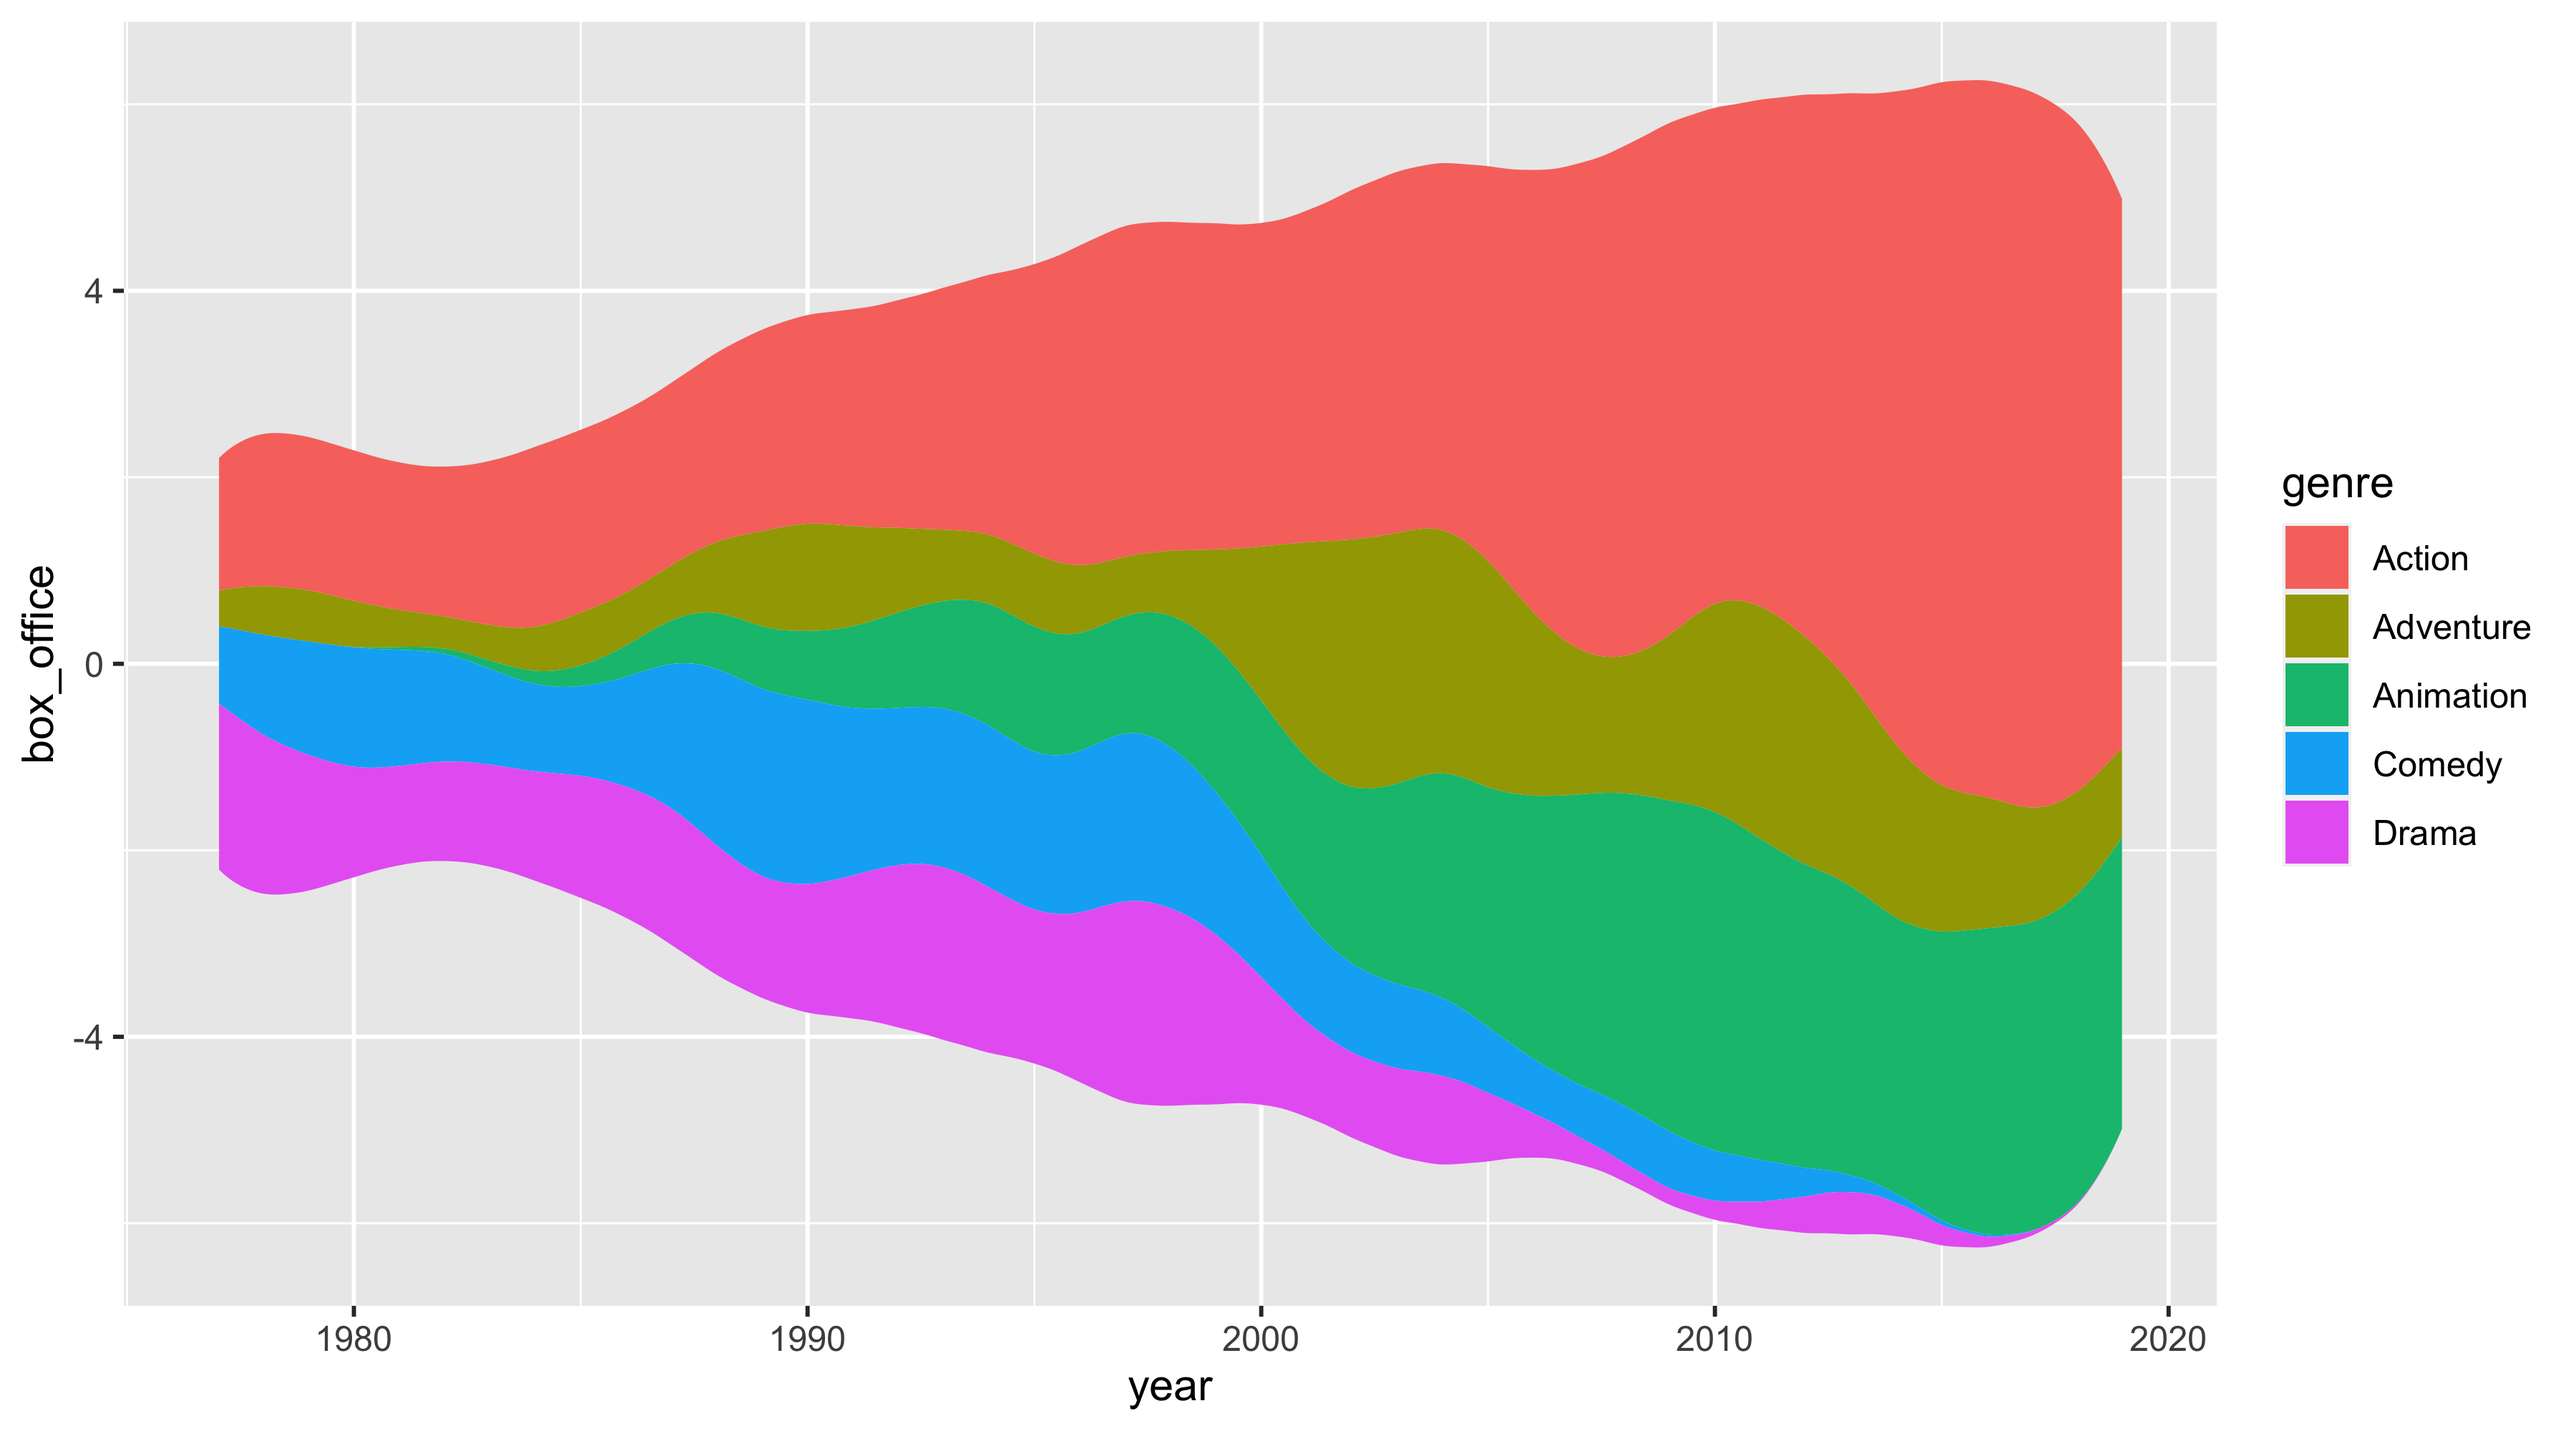
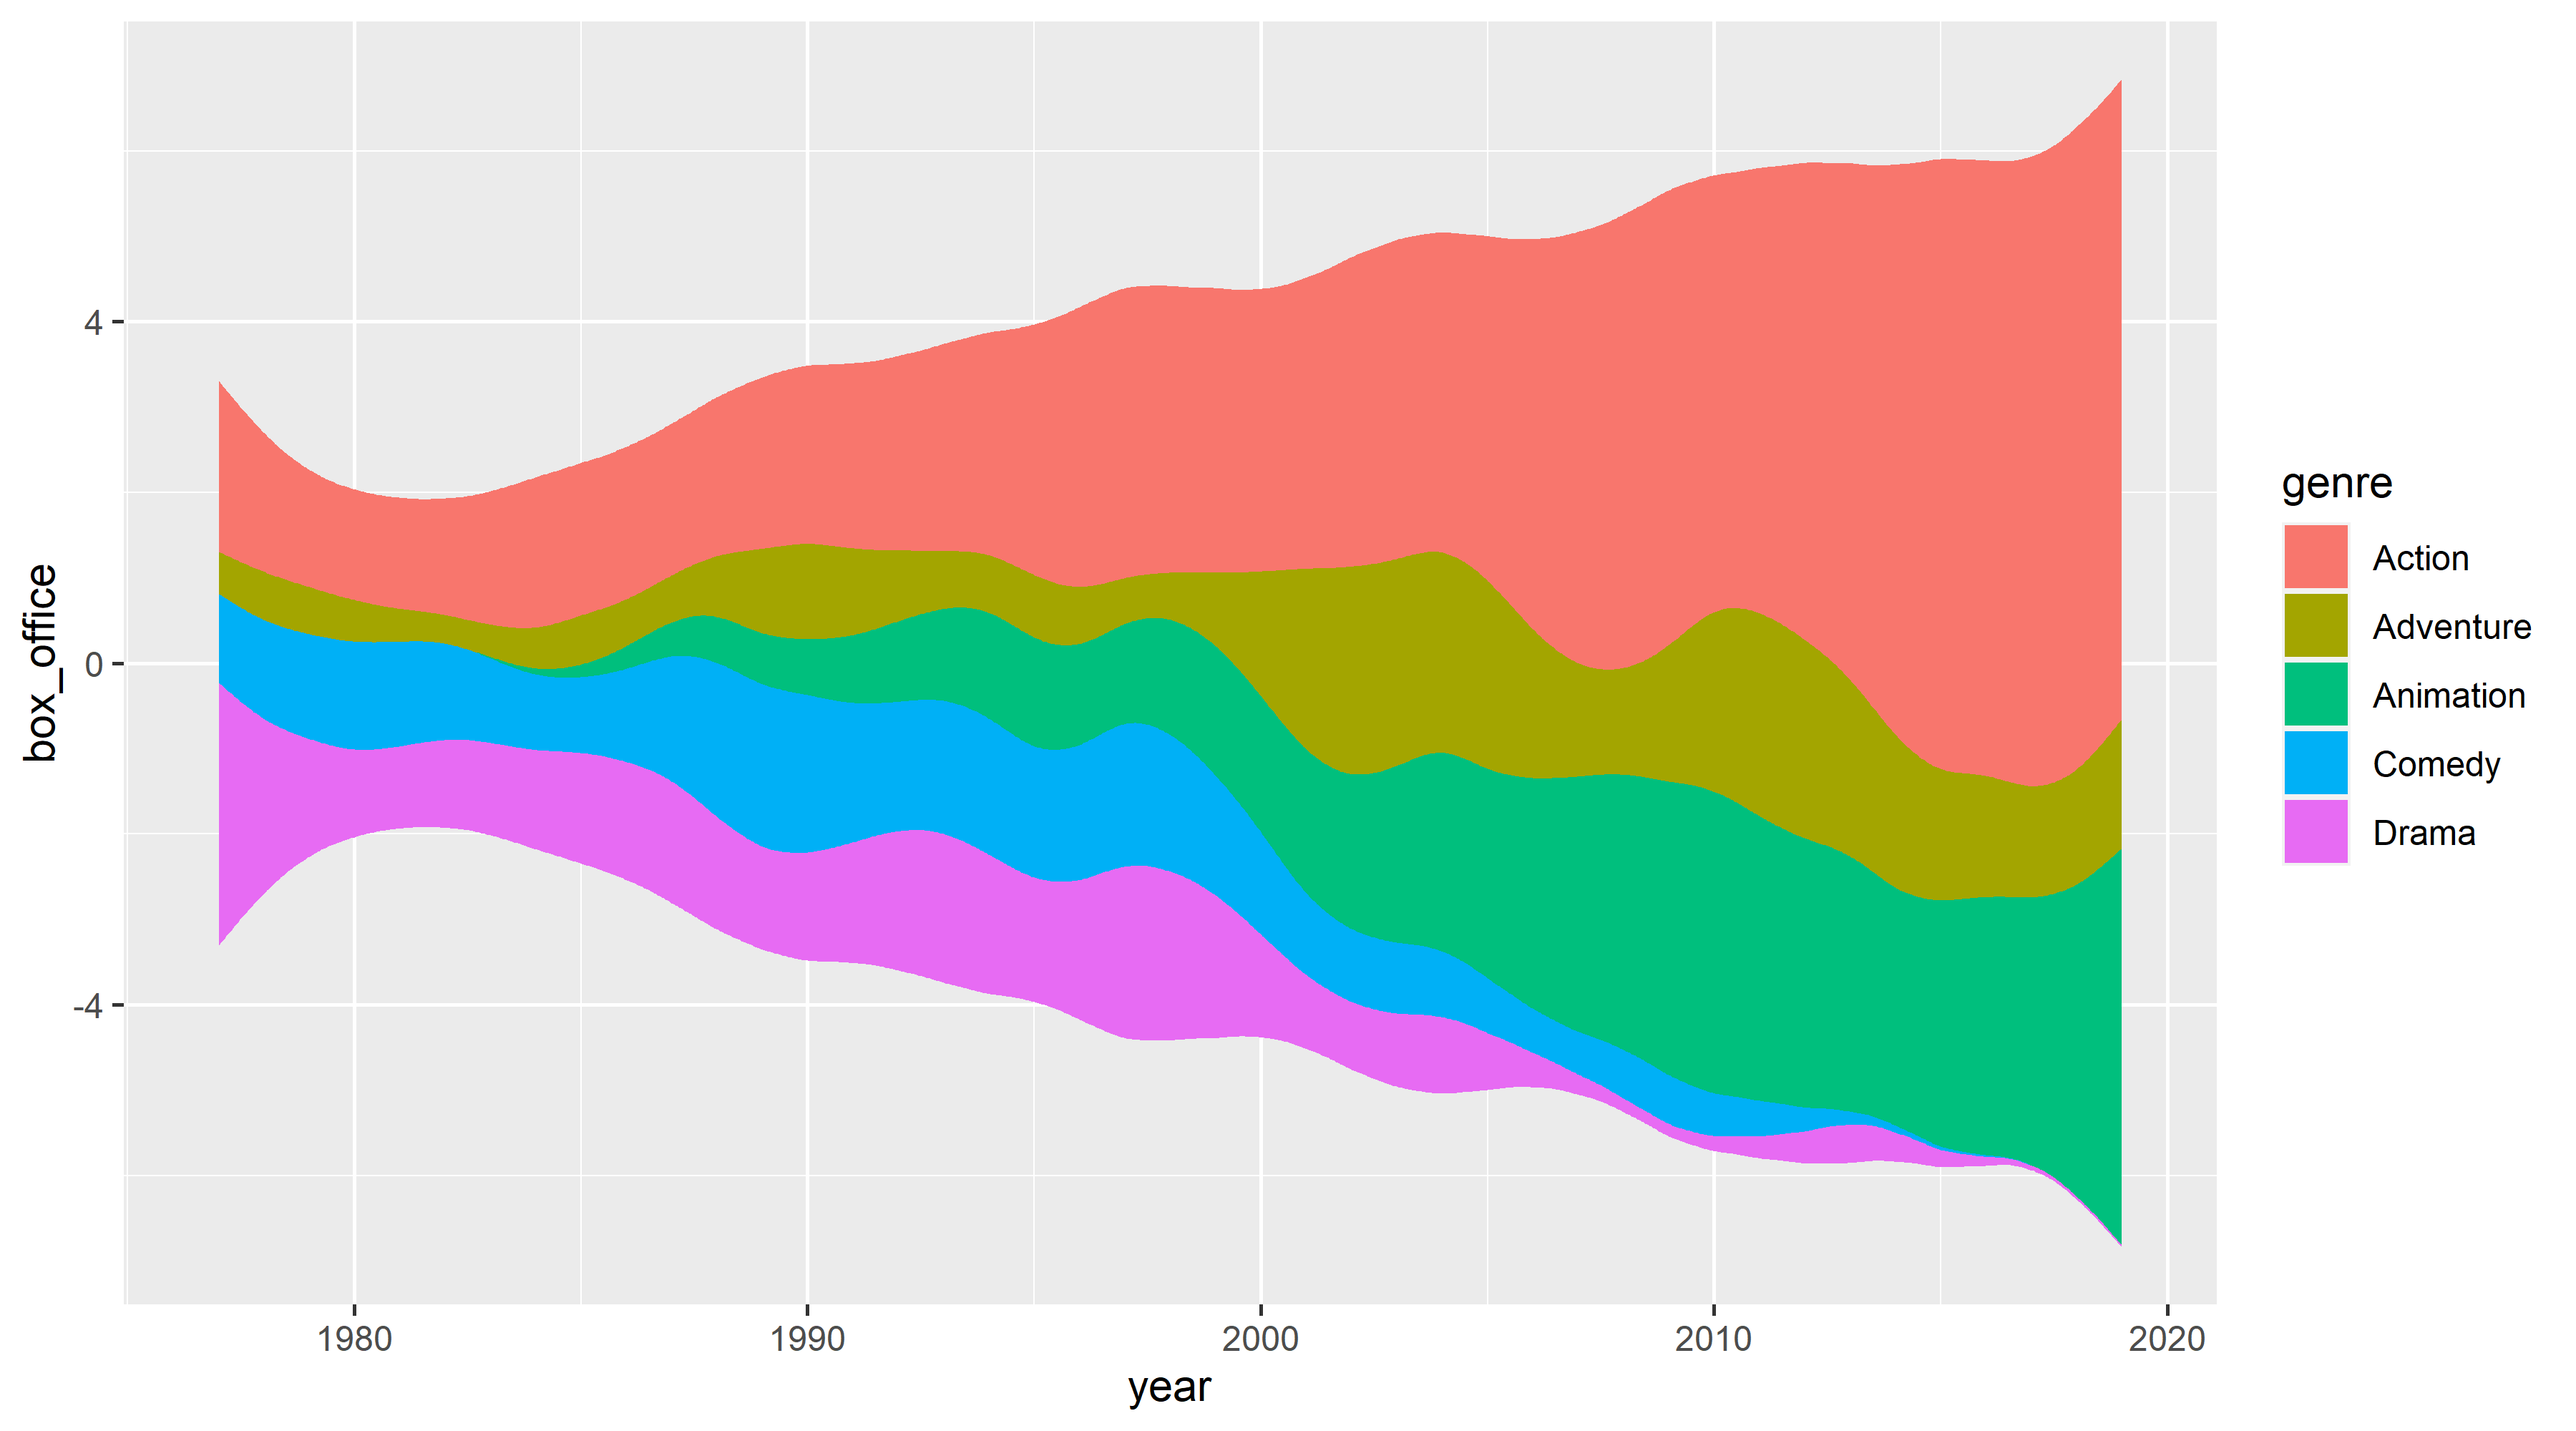
added parameter descriptions to readme

diff --git a/README.md b/README.md
@@ -24,14 +24,25 @@ remotes::install_github("davidsjoberg/ggstream")
 
 ## Examples
 
+#### Type: Mirror
+
 The characteristic streamplot which creates a symmetrical area chart
 around the x axis.
 
 <img src="man/figures/README-pressure-1.png" width="100%" />
 
+#### Type: Ridge
+
 Which is equivalent to a stacked area chart.
 
 <img src="man/figures/README-pressure2-1.png" width="100%" />
+
+#### Type: Proportional
+
+The type `proportional` shows the share of each group in percent.
+Stacked like the `ridge` type.
+
+<img src="man/figures/README-pressure3-1.png" width="100%" />
 
 ## Basic usage
 
@@ -56,3 +67,83 @@ ggplot(blockbusters, aes(year, box_office, fill = genre)) +
 ```
 
 <img src="man/figures/README-cars-1.png" width="100%" />
+
+#### Add some pimp
+
+``` r
+library(cowplot)
+library(paletteer)
+library(dplyr)
+library(colorspace)
+
+blockbusters %>%
+  ggplot(aes(year, box_office, fill = genre, label = genre, color = genre)) +
+    geom_stream(extra_span = 0.013, type = "mirror", n_grid = 3000, bw = .78) +
+    geom_stream_label(size = 4, type = "mirror", n_grid = 1000) +
+  cowplot::theme_minimal_vgrid(font_size = 18) +
+  theme(legend.position = "none") +
+  scale_colour_manual(values = paletteer::paletteer_d("dutchmasters::milkmaid") %>% colorspace::darken(.8)) +
+  scale_fill_manual(values = paletteer::paletteer_d("dutchmasters::milkmaid") %>% colorspace::lighten(.2)) +
+  labs(title = "Box office per genre 1977-2019",
+       x = NULL,
+       y = "Current dollars, billions")
+```
+
+<img src="man/figures/README-cars8989-1.png" width="100%" />
+
+## Advanced parameters
+
+### bw
+
+The main parameter to adjust in `geom_stream` is probably the bandwidth,
+or `bw`. A lower bandwidth creates a more bumpy plot and a higher
+bandwidth smoothens out some variation. Below is an illustration of how
+different bandwidths affect the stream plot.
+
+``` r
+library(patchwork)
+
+base <- ggplot(blockbusters, aes(year, box_office, fill = genre)) + 
+  theme(legend.position = "none")
+
+(base +  geom_stream(bw = 0.5) + ggtitle("bw = 0.5")) /
+(base +  geom_stream() + ggtitle("Default (bw = 0.75)")) /
+(base +  geom_stream(bw = 1) + ggtitle("bw = 1"))
+```
+
+<img src="man/figures/README-cars33-1.png" width="100%" />
+
+### Extra Span
+
+Another important parameter to adjust is `extra_span`. This parameter
+adjust if a larger range than the range of the data which can help if
+the edges of the stream plot grows too large due in the estimation
+function. The additional range is set to y = 0 which forces the area
+towards zero. The cut-off can include the extra range or fit the data.
+Too illustrate this rather unintuitive parameter some variations are
+shown below. The transparent areas show the full estimation, and the
+solid area is the final plot.
+
+``` r
+base <- ggplot(blockbusters, aes(year, box_office, fill = genre)) + 
+  theme(legend.position = "none") +
+  xlim(1970, 2028)
+
+(base +  geom_stream() + ggtitle("Default")) /
+(base +  geom_stream(extra_span = 0.001) + geom_stream(extra_span = 0.001, true_range = "none", alpha = .3) + ggtitle("extra_span = 0.001")) /
+(base +  geom_stream(extra_span = .1) + geom_stream(extra_span = .1, true_range = "none", alpha = .3) + ggtitle("extra_span = .1")) /
+(base +  geom_stream(extra_span = .2) + geom_stream(extra_span = .2, true_range = "none", alpha = .3) + ggtitle("extra_span = .2")) /
+(base +  geom_stream(extra_span = .2, true_range = "none") + ggtitle("extra_span = .2 and true_range = \"none\""))
+```
+
+<img src="man/figures/README-cars3344-1.png" width="100%" />
+
+## Final remarks
+
+The `ggstream` package provides some flexible ways to make stream plots
+but with decent defaults. However, due to the complexity of the
+underlying smoothing/estimation it should be used carefully and mostly
+for fun too illustrate major trends.
+
+If you find a bug or have ideas for additional feature you are more than
+welcome to open an issue.
